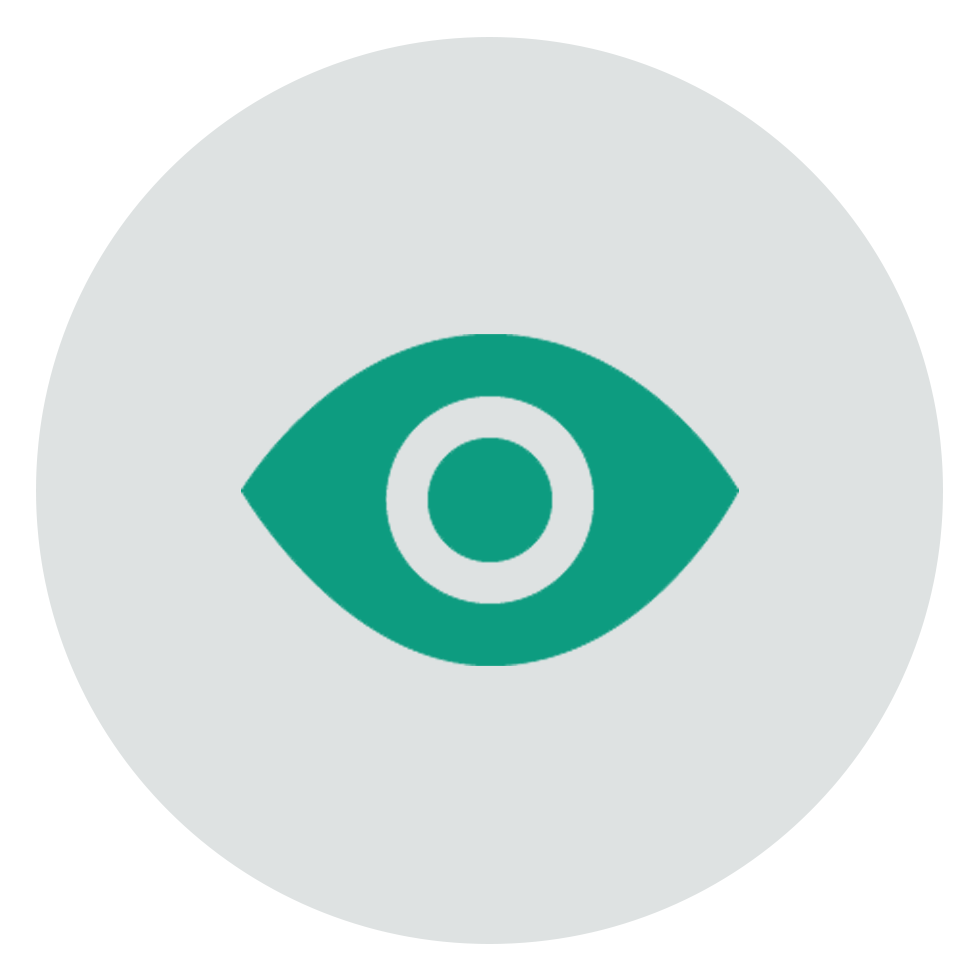
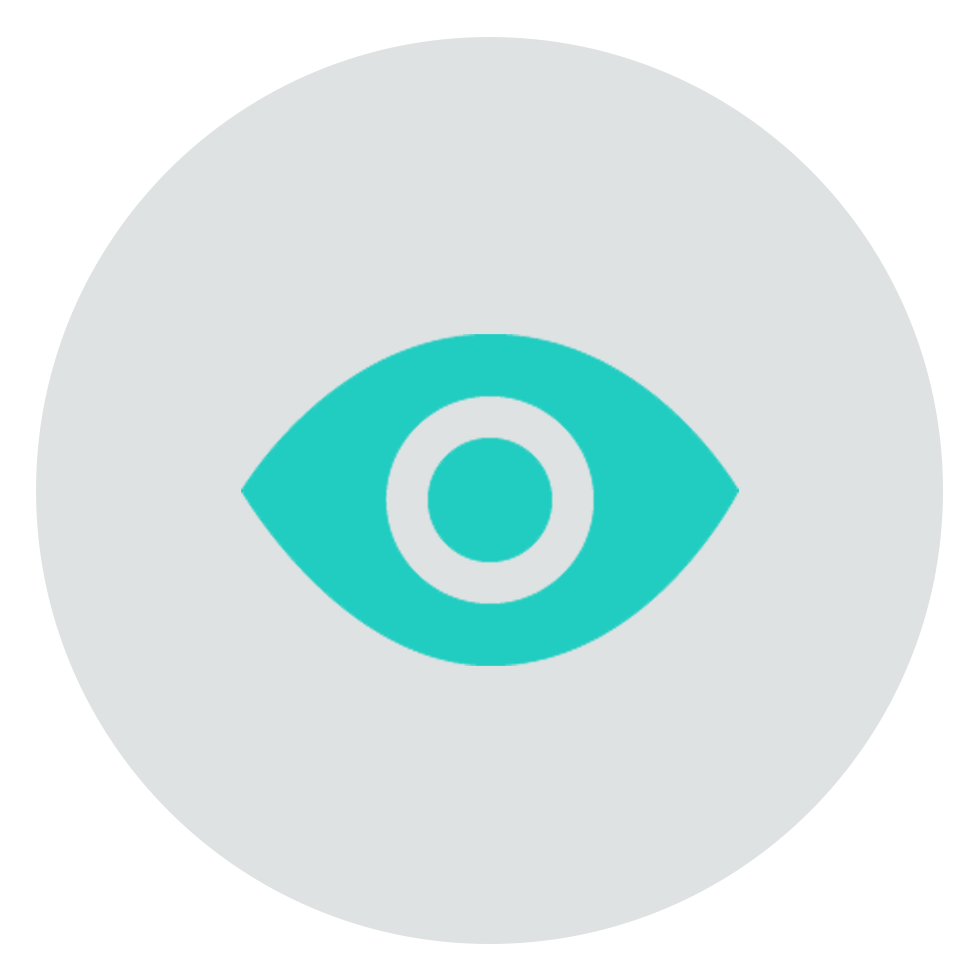
Ndryshim
Ndryshim i ngjyres se background dhe ngjyres se ikonave.

Changed region(s): [[0.2449, 0.3367, 0.7653, 0.7041]]

diff --git a/main.css b/main.css
@@ -9,7 +9,8 @@
 
 .header {
     padding: 10px 50px; 
-    background-color:#0d9c80 ;
+   background:#21cdc1;
+  
     }
 
     
@@ -49,32 +50,34 @@
     }
 
 /* SECTION 1 */
-
 .content {
     background-image: url(FOTO2.jpg);
     width: 100%;
-    height: 720px;
+    height: 700px;
     background-size: 100% 100%;
     display: flex;
     justify-content: flex-start;
-}
+} 
+   
+
 
     .textbox {
         display:flex;
         margin-left: 50px;
-        margin-top: 200px
+        justify-content: center;
+        align-items: center;
     }
 
     .textbox h2{
         color: rgb(71, 70, 70);
-        font-size: 4em;
+        font-size: 3em;
         line-height: 1.3em;
         font-weight: 500;
         letter-spacing: 0.5mm;
     }
 
     .textbox h2 span{
-        color: #0d9c80;
+        color: #21cdc1;
         font-size: 1.2em;
         font-weight: 900;
     }
@@ -84,7 +87,7 @@
     }
 
     .textbox h2 .btn {
-        background-color:#0d9c80;
+      background-color: #21cdc1;
         color: white;
         border: none;
         padding: 10px 20px;
@@ -143,16 +146,19 @@
     margin-bottom: 40px;
 }
 
+
 .boxat img{
   display: flex;
   
 }
 
+
 .te {
-    color: #0d9c80;
+    color:#21cdc1;
     font-size: large;
     font-weight: 900;
 }
+
 
 
 /* SECTION 3 */
@@ -214,13 +220,15 @@ margin-top: 40px;
 
 
 
+
+
 /* LOG IN */
 
 .form-container {
    
     width: 320px;
     border-radius: 0.75rem;
-    background-color: #0d9c80;
+    background-color: #21cdc1;
     padding: 2rem;
     color: rgba(243, 244, 246, 1);
   }

diff --git a/index.html b/index.html
@@ -30,7 +30,7 @@
         <div class="login-button">
            
          
-                      <a id="icon" href="login.html" > <img style="width: 40px; height: 40px; " src="login.png" alt=""> </a>
+                      <a href="login.html" > <img style="width: 40px; height: 40px; " src="login.png" alt=""> </a>
                 
         </div>
         </div>
@@ -39,12 +39,12 @@
     <main>
         <div class="content">
         <div class="textbox">
-
-                      <h2> Spitali  <br> më i vlerësuar <br> <span> në Evropë. </span> 
+                   
+                  <div class="pjesa1">  <h2> Spitali më i vlerësuar <br> <span> në Evropë. </span> 
                         <button class="btn">
                             Regjistrohu 
                           </button></h2> <br>
-                
+                        </div>  
     
         </div>
         </div>
@@ -62,12 +62,14 @@
             <div class="boxat">
                 <img style="height: 100px; width: 100px;" src="firstaid.png" alt="">
                 <div class="te"><p>Kujdes gjatë gjithë kohës</p></div>
+               
                 
             </div>
 
             <div class="boxat">
                 <img style="height: 100px; width: 100px;" src="ambulance.png" alt="">
                 <div class="te"><p>Ndihma e parë</p></div>
+               
             </div>
             <div class="boxat">
                 <img style="height: 100px; width: 100px;" src="barnat.png" alt="">
